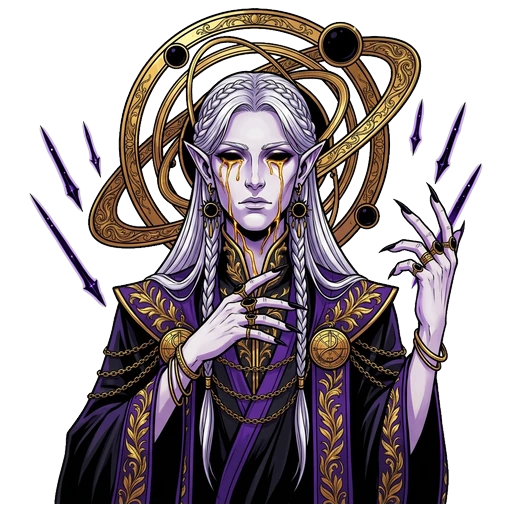
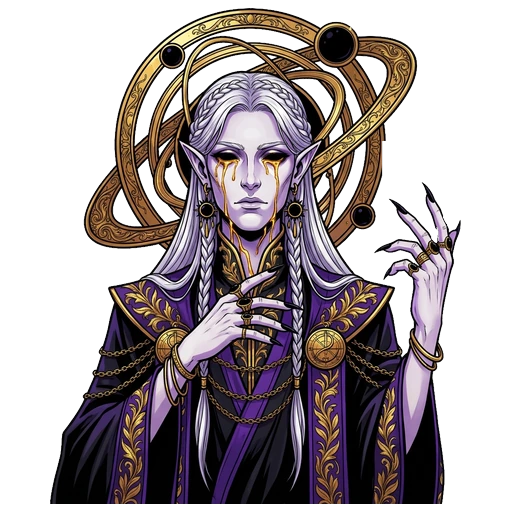
art(cards): remove floating shards around Vaelen (purple_178)

diff --git a/src/components/CardView.tsx b/src/components/CardView.tsx
@@ -494,7 +494,7 @@ export const CardView: React.FC<CardViewProps> = ({
           <div className={`cpa-token-art aura-${displayCard.domain}`}>
             {!imgError && displayCard.imagePath ? (
               <img
-                src={`${displayCard.imagePath}?v=61`}
+                src={`${displayCard.imagePath}?v=62`}
                 alt={displayName}
                 className="cpa-token-img"
                 onError={() => setImgError(true)}
@@ -665,7 +665,7 @@ export const CardView: React.FC<CardViewProps> = ({
 
           {!imgError && displayCard.imagePath ? (
             <img
-              src={`${displayCard.imagePath}?v=61`}
+              src={`${displayCard.imagePath}?v=62`}
               alt={displayName}
               className="card-cutout-img"
               onError={() => setImgError(true)}

diff --git a/public/sw.js b/public/sw.js
@@ -1,4 +1,4 @@
-const CACHE_VERSION = 'chromatic-pact-v74';
+const CACHE_VERSION = 'chromatic-pact-v75';
 const ASSET_CACHE = `${CACHE_VERSION}-assets`;
 
 const PRECACHE_URLS = [
